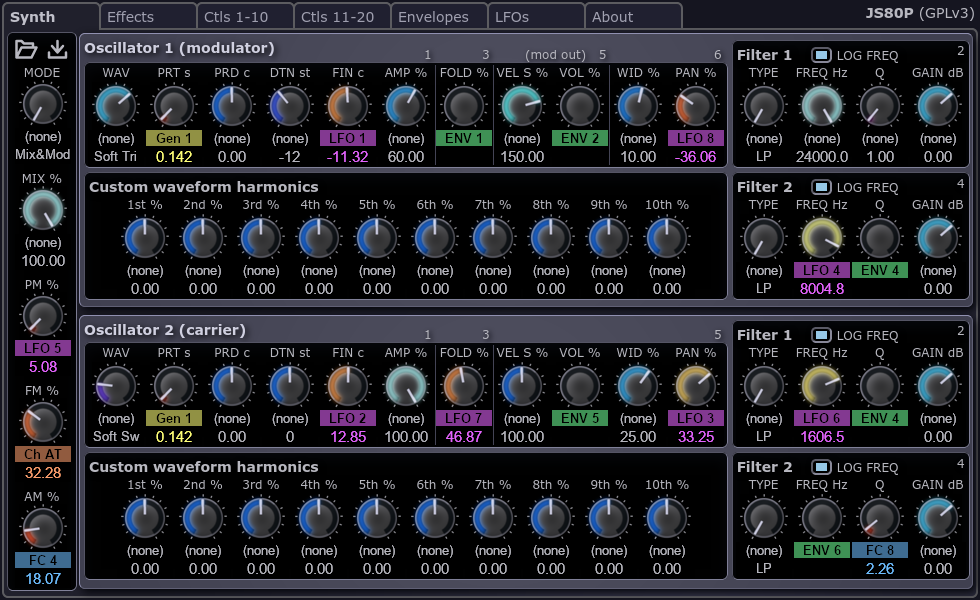
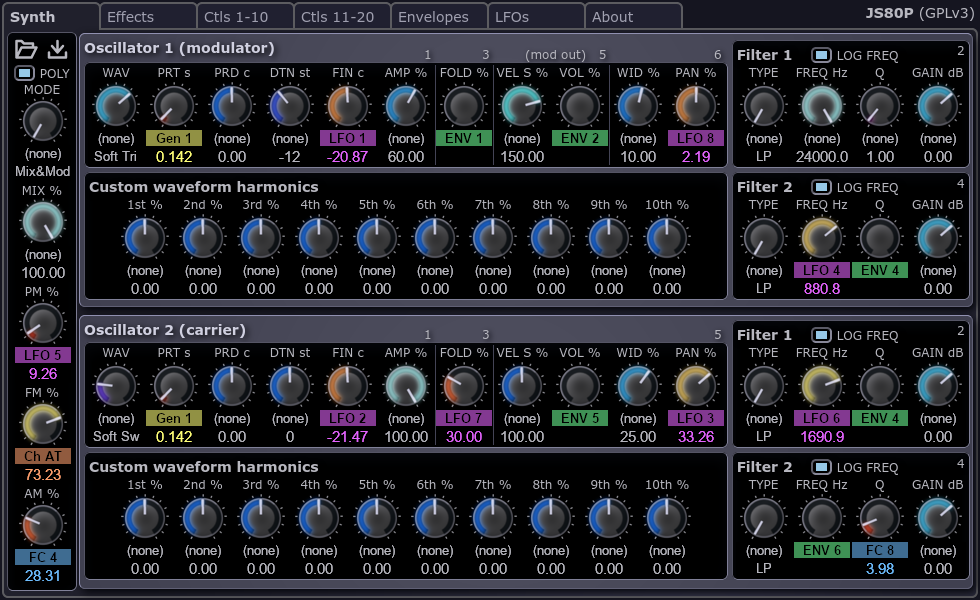
publish v2.0.0, copy changes from README.md

diff --git a/index.html b/index.html
@@ -227,7 +227,7 @@ small {
     </div>
 
     <div id="download">
-      <h2 class="center">Download (v1.9.9)</h2>
+      <h2 class="center">Download (v2.0.0)</h2>
       <div class="section">
         <p class="center">
           <a href="#faq-which">Which distribution should I download?</a>
@@ -241,27 +241,27 @@ small {
               <h4>Windows and Linux, 64 bit</h4>
               <ul>
                 <li>
-                  VST 3 Bundle: <a href="https://github.com/attilammagyar/js80p/releases/download/v1.9.9/js80p-1_9_9-avx-vst3_bundle.zip">Download (3.5M)</a>
+                  VST 3 Bundle: <a href="https://github.com/attilammagyar/js80p/releases/download/v2.0.0/js80p-2_0_0-avx-vst3_bundle.zip">Download (3.5M)</a>
                 </li>
               </ul>
 
               <h4>Windows</h4>
               <ul>
                 <li>
-                  64-bit, VST 3 Single File: <a href="https://github.com/attilammagyar/js80p/releases/download/v1.9.9/js80p-1_9_9-windows-64bit-avx-vst3_single_file.zip">Download (2.0M)</a>
+                  64-bit, VST 3 Single File: <a href="https://github.com/attilammagyar/js80p/releases/download/v2.0.0/js80p-2_0_0-windows-64bit-avx-vst3_single_file.zip">Download (2.0M)</a>
                 </li>
                 <li>
-                  64-bit, FST (VST 2.4): <a href="https://github.com/attilammagyar/js80p/releases/download/v1.9.9/js80p-1_9_9-windows-64bit-avx-fst.zip">Download (1.8M)</a>
+                  64-bit, FST (VST 2.4): <a href="https://github.com/attilammagyar/js80p/releases/download/v2.0.0/js80p-2_0_0-windows-64bit-avx-fst.zip">Download (1.8M)</a>
                 </li>
               </ul>
 
               <h4>Linux</h4>
               <ul>
                 <li>
-                  64-bit, VST 3 Single File: <a href="https://github.com/attilammagyar/js80p/releases/download/v1.9.9/js80p-1_9_9-linux-64bit-avx-vst3_single_file.zip">Download (1.4M)</a>
+                  64-bit, VST 3 Single File: <a href="https://github.com/attilammagyar/js80p/releases/download/v2.0.0/js80p-2_0_0-linux-64bit-avx-vst3_single_file.zip">Download (1.4M)</a>
                 </li>
                 <li>
-                  64-bit, FST (VST 2.4): <a href="https://github.com/attilammagyar/js80p/releases/download/v1.9.9/js80p-1_9_9-linux-64bit-avx-fst.zip">Download (1.2M)</a>
+                  64-bit, FST (VST 2.4): <a href="https://github.com/attilammagyar/js80p/releases/download/v2.0.0/js80p-2_0_0-linux-64bit-avx-fst.zip">Download (1.2M)</a>
                 </li>
               </ul>
             </div>
@@ -274,39 +274,39 @@ small {
               <h4>Windows and Linux, 64 bit and 32 bit</h4>
               <ul>
                 <li>
-                  VST 3 Bundle: <a href="https://github.com/attilammagyar/js80p/releases/download/v1.9.9/js80p-1_9_9-sse2-vst3_bundle.zip">Download (7.8M)</a>
+                  VST 3 Bundle: <a href="https://github.com/attilammagyar/js80p/releases/download/v2.0.0/js80p-2_0_0-sse2-vst3_bundle.zip">Download (7.9M)</a>
                 </li>
               </ul>
 
               <h4>Windows</h4>
               <ul>
                 <li>
-                  64-bit, VST 3 Single File: <a href="https://github.com/attilammagyar/js80p/releases/download/v1.9.9/js80p-1_9_9-windows-64bit-sse2-vst3_single_file.zip">Download (2.0M)</a>
+                  64-bit, VST 3 Single File: <a href="https://github.com/attilammagyar/js80p/releases/download/v2.0.0/js80p-2_0_0-windows-64bit-sse2-vst3_single_file.zip">Download (2.0M)</a>
                 </li>
                 <li>
-                  64-bit, FST (VST 2.4): <a href="https://github.com/attilammagyar/js80p/releases/download/v1.9.9/js80p-1_9_9-windows-64bit-sse2-fst.zip">Download (1.8M)</a>
+                  64-bit, FST (VST 2.4): <a href="https://github.com/attilammagyar/js80p/releases/download/v2.0.0/js80p-2_0_0-windows-64bit-sse2-fst.zip">Download (1.8M)</a>
                 </li>
                 <li>
-                  32-bit, VST 3 Single File: <a href="https://github.com/attilammagyar/js80p/releases/download/v1.9.9/js80p-1_9_9-windows-32bit-sse2-vst3_single_file.zip">Download (2.0M)</a>
+                  32-bit, VST 3 Single File: <a href="https://github.com/attilammagyar/js80p/releases/download/v2.0.0/js80p-2_0_0-windows-32bit-sse2-vst3_single_file.zip">Download (2.1M)</a>
                 </li>
                 <li>
-                  32-bit, FST (VST 2.4): <a href="https://github.com/attilammagyar/js80p/releases/download/v1.9.9/js80p-1_9_9-windows-32bit-sse2-fst.zip">Download (1.8M)</a>
+                  32-bit, FST (VST 2.4): <a href="https://github.com/attilammagyar/js80p/releases/download/v2.0.0/js80p-2_0_0-windows-32bit-sse2-fst.zip">Download (1.8M)</a>
                 </li>
               </ul>
 
               <h4>Linux</h4>
               <ul>
                 <li>
-                  64-bit, VST 3 Single File: <a href="https://github.com/attilammagyar/js80p/releases/download/v1.9.9/js80p-1_9_9-linux-64bit-sse2-vst3_single_file.zip">Download (1.4M)</a>
+                  64-bit, VST 3 Single File: <a href="https://github.com/attilammagyar/js80p/releases/download/v2.0.0/js80p-2_0_0-linux-64bit-sse2-vst3_single_file.zip">Download (1.4M)</a>
                 </li>
                 <li>
-                  64-bit, FST (VST 2.4): <a href="https://github.com/attilammagyar/js80p/releases/download/v1.9.9/js80p-1_9_9-linux-64bit-sse2-fst.zip">Download (1.2M)</a>
+                  64-bit, FST (VST 2.4): <a href="https://github.com/attilammagyar/js80p/releases/download/v2.0.0/js80p-2_0_0-linux-64bit-sse2-fst.zip">Download (1.2M)</a>
                 </li>
                 <li>
-                  32-bit, VST 3 Single File: <a href="https://github.com/attilammagyar/js80p/releases/download/v1.9.9/js80p-1_9_9-linux-32bit-sse2-vst3_single_file.zip">Download (1.4M)</a>
+                  32-bit, VST 3 Single File: <a href="https://github.com/attilammagyar/js80p/releases/download/v2.0.0/js80p-2_0_0-linux-32bit-sse2-vst3_single_file.zip">Download (1.4M)</a>
                 </li>
                 <li>
-                  32-bit, FST (VST 2.4): <a href="https://github.com/attilammagyar/js80p/releases/download/v1.9.9/js80p-1_9_9-linux-32bit-sse2-fst.zip">Download (1.2M)</a>
+                  32-bit, FST (VST 2.4): <a href="https://github.com/attilammagyar/js80p/releases/download/v2.0.0/js80p-2_0_0-linux-32bit-sse2-fst.zip">Download (1.2M)</a>
                 </li>
               </ul>
             </div>
@@ -316,114 +316,22 @@ small {
         <h3>Source Code</h3>
         <ul>
           <li>
-            Source: <a href="https://github.com/attilammagyar/js80p/releases/download/v1.9.9/js80p-1_9_9-src.zip">Download (6.1M)</a>
+            Source: <a href="https://github.com/attilammagyar/js80p/releases/download/v2.0.0/js80p-2_0_0-src.zip">Download (8.2M)</a>
           </li>
         </ul>
       </div>
 
       <div class="section">
-        <h3>What's New in v1.9.9</h3>
+        <h3>What's New in v2.0.0</h3>
         <ul>
-          <li><p>Bugfix: initialize MIDI CC 64 (sustain pedal) to 0% instead of 50%. The
-          basic sound of patches that utilize the sustain pedal (like some of the
-          built-in presets) are usually designed with the pedal being released, so
-          that's how they should sound when the plugin is used without one.</p></li>
-        </ul>
-
-        <h3>What's New in v1.9.8</h3>
-        <ul>
-          <li><p>Bugfix: fixed logarithmic scale filter frequency persistency. When a
-          logarithmic scale filter frequency parameter had no controller assigned to
-          it, then patch save and load operations, and DAW project save and reopen
-          operations caused the filter frequency to significantly drift upwards.</p></li>
-        </ul>
-
-        <h3>What's New in v1.9.7</h3>
-        <ul>
-          <li><p>Build separate versions of the plugin for newer CPUs which
-          support the AVX instruction set</p></li>
-          <li><p>Bugfix: make sure that the FST plugin always reports the short
-          name of the current program correctly to the host
-          application</p></li>
-        </ul>
-
-        <h3>What's New in v1.9.6</h3>
-        <ul>
-          <li><p>Bugfix: when a note was immediately released after being triggered, it could
-          happen that its parameters that were controlled by envelopes would start
-          their release from the parameter's last set value instead of the envelope's
-          initial value. Now if a note is released immediately after getting triggered
-          then its parameters that have an envelope assigned to them will gradually
-          change from the envelope's initial value to its final value.</p></li>
-          <li><p>Bugfix: the All Files option in file selector dialogs will actually show all
-          files on Linux, not just the ones with a dot in their name.</p></li>
-        </ul>
-
-        <h3>What's New in v1.9.5</h3>
-        <ul>
-          <li><p>2 new presets: Nightmare Lead and Tremolo Lead</p></li>
-          <li><p>Bugfix: along with the release time, non-dynamic envelopes will also use the
-          final value and amount that was in effect at the moment when the note was
-          triggered, and only dynamic envelopes will update their final value and
-          amount for already sounding notes</p></li>
-        </ul>
-
-        <h3>What's New in v1.9.4</h3>
-        <ul>
-          <li><p>Bugfix: when the same note was triggered on multiple voices while holding
-          down the sustain pedal, then releasing the pedal failed to release some
-          of the voices, keeping the note ringing. Now these stuck notes are correctly
-          released</p></li>
-        </ul>
-
-        <h3>What's New in v1.9.3</h3>
-        <ul>
-          <li><p>Documentation clarifications and typo fixes</p></li>
-          <li><p>Improve VST 3 bundle compatibility with 32 bit hosts on Linux</p></li>
-          <li><p>Bugfix: reduce unwanted noise in the Overdrive and Distortion effects which
-          became noticeable when the input signal was already rich in harmonics, and
-          the distortion was cranked up to 11</p></li>
-        </ul>
-
-        <h3>What's New in v1.9.2</h3>
-        <ul>
-          <li><p>Increase the effect of note velocity on the timbre of the Saw Piano and
-          Saw Piano Reversed patches</p></li>
-          <li><p>Include more detailed, HTML documentation in distribution packages</p></li>
-          <li><p>Bugfix: when the sustain pedal was released, occasionally a few notes would
-          remain sounding, and sometimes notes could get released which should have
-          remained sounding due to their corresponding key being held down. Now those
-          and only those voices remain sounding after a pedal release which belong to
-          held down keys.</p></li>
-        </ul>
-
-        <h3>What's New in v1.9.1</h3>
-        <ul>
-          <li><p>Voices which decay completely into silence during their envelope sustain
-          phase are now turned off automatically, in order to be reused for new notes,
-          and to save CPU time.</p></li>
-          <li><p>Bugfix: non-dynamic envelopes will use the release time that was in effect
-          at the moment when the note was triggered, only dynamic envelopes will
-          update the release time for already sounding notes</p></li>
-          <li><p>Bugfix: the FST plugin now handles the sustain pedal's messages correctly
-          in FL Studio as well.</p></li>
-        </ul>
-
-        <h3>What's New in v1.9.0</h3>
-        <ul>
-          <li><p>Sustain pedal is now supported</p></li>
-          <li><p>Sustain pedal can also be used to control parameters (e.g. it can adjust
-          Envelopes via a Flexible Controller)</p></li>
-          <li><p>Presets are adjusted to take advantage of the sustain pedal as well</p></li>
-          <li><p>Polyphony increased to 64 voices</p></li>
-          <li><p>Include version, platform, and SDK version in the information shown on the
-          About tab</p></li>
+          <li><p>Implemented monophonic mode for smooth legato playing</p></li>
+          <li><p>New preset: Monophonic Saw</p></li>
         </ul>
       </div>
 
       <div class="section">
         <p class="center">
-          <a href="https://github.com/attilammagyar/js80p/releases/">Previous releases and changelog</a>
+          <a href="https://github.com/attilammagyar/js80p/releases/">Older releases and changelog</a>
         </p>
       </div>
     </div>
@@ -496,7 +404,7 @@ small {
               <li>separate packages are available for AVX capable 64 bit processors</li>
             </ul>
           </li>
-          <li>RAM: 150-300 MB per instance, depending on buffer sizes, etc.</li>
+          <li>RAM: 150-500 MB per instance, depending on buffer sizes, etc.</li>
         </ul>
 
         <div class="indent">
@@ -887,6 +795,15 @@ small {
 
           <p>Thick lead sound. Aftertouch adds vibrato and harmonics, mod wheel opens up
           the filter and adds a tremolo effect. Filtering also responds to note velocity.</p>
+
+          <p><a id="preset-monophonic-saw"></a></p>
+
+          <h3>Monophonic Saw</h3>
+
+          <p>A sawtooth wave based monophonic, sustained sound with smooth legato glides.
+          The harder you play, the brighter and richer the timbre, and the harder the
+          note attack. Mod wheel controls the vibrato, and aftertouch controls the
+          filtering and the wavefolder. The sustain pedal lengthens note decay.</p>
         </div>
       </div>
     </div>
@@ -908,6 +825,13 @@ small {
         <h3>Features</h3>
         <ul>
           <li>64 notes polyphony</li>
+          <li>
+            last-note priority monophonic mode
+            <ul>
+              <li>legato playing will either retrigger or smoothly glide to the next note,
+              depending on the portamento length setting</li>
+            </ul>
+          </li>
           <li>
             2 oscillators with 10 waveforms:
             <ul>
